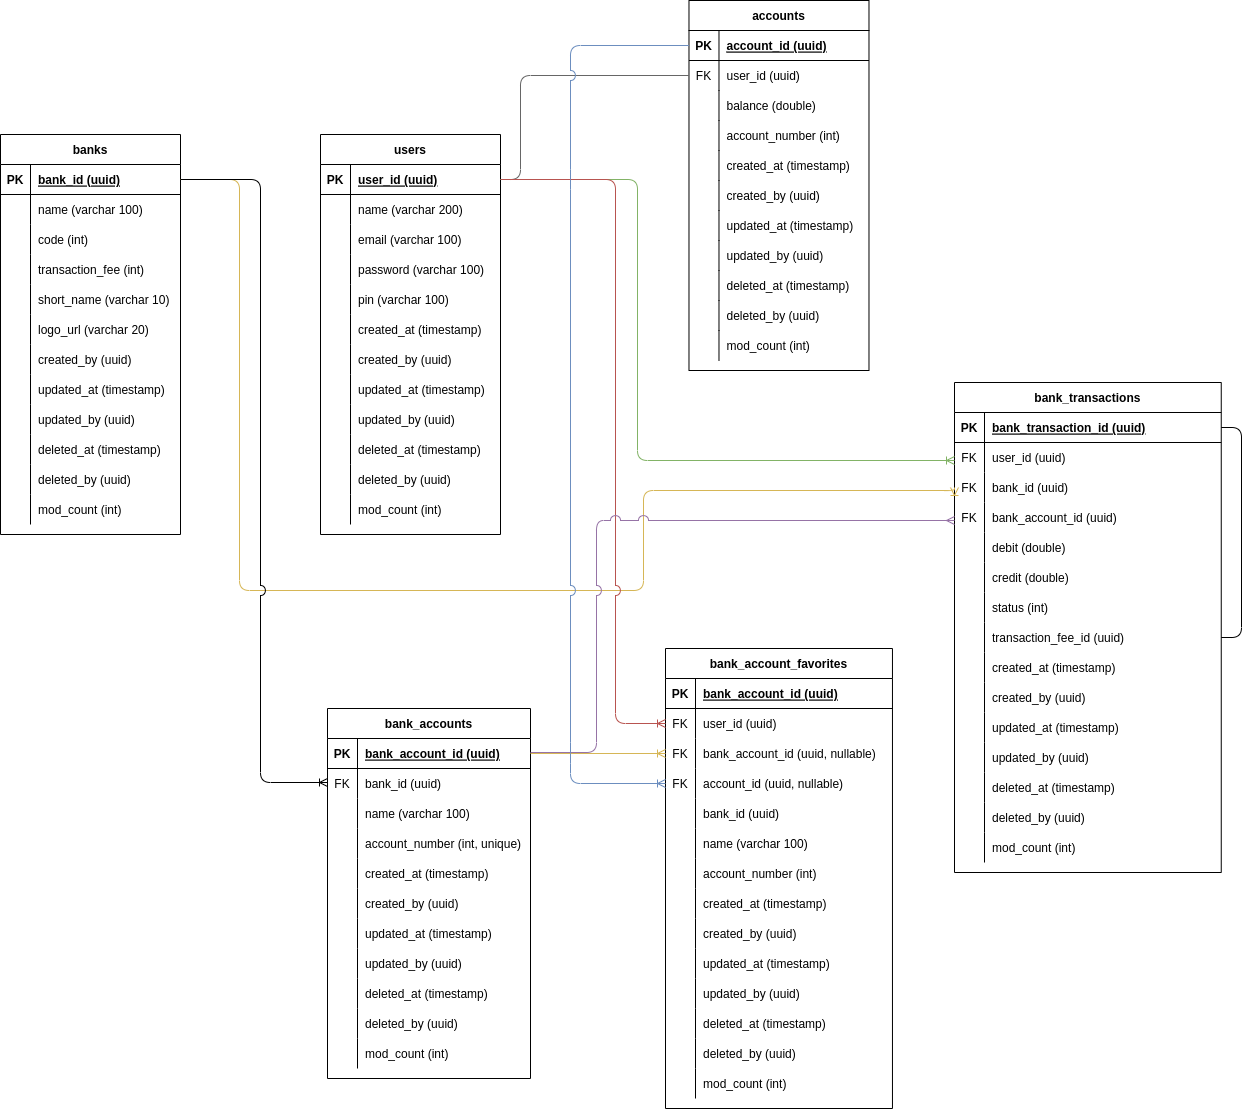
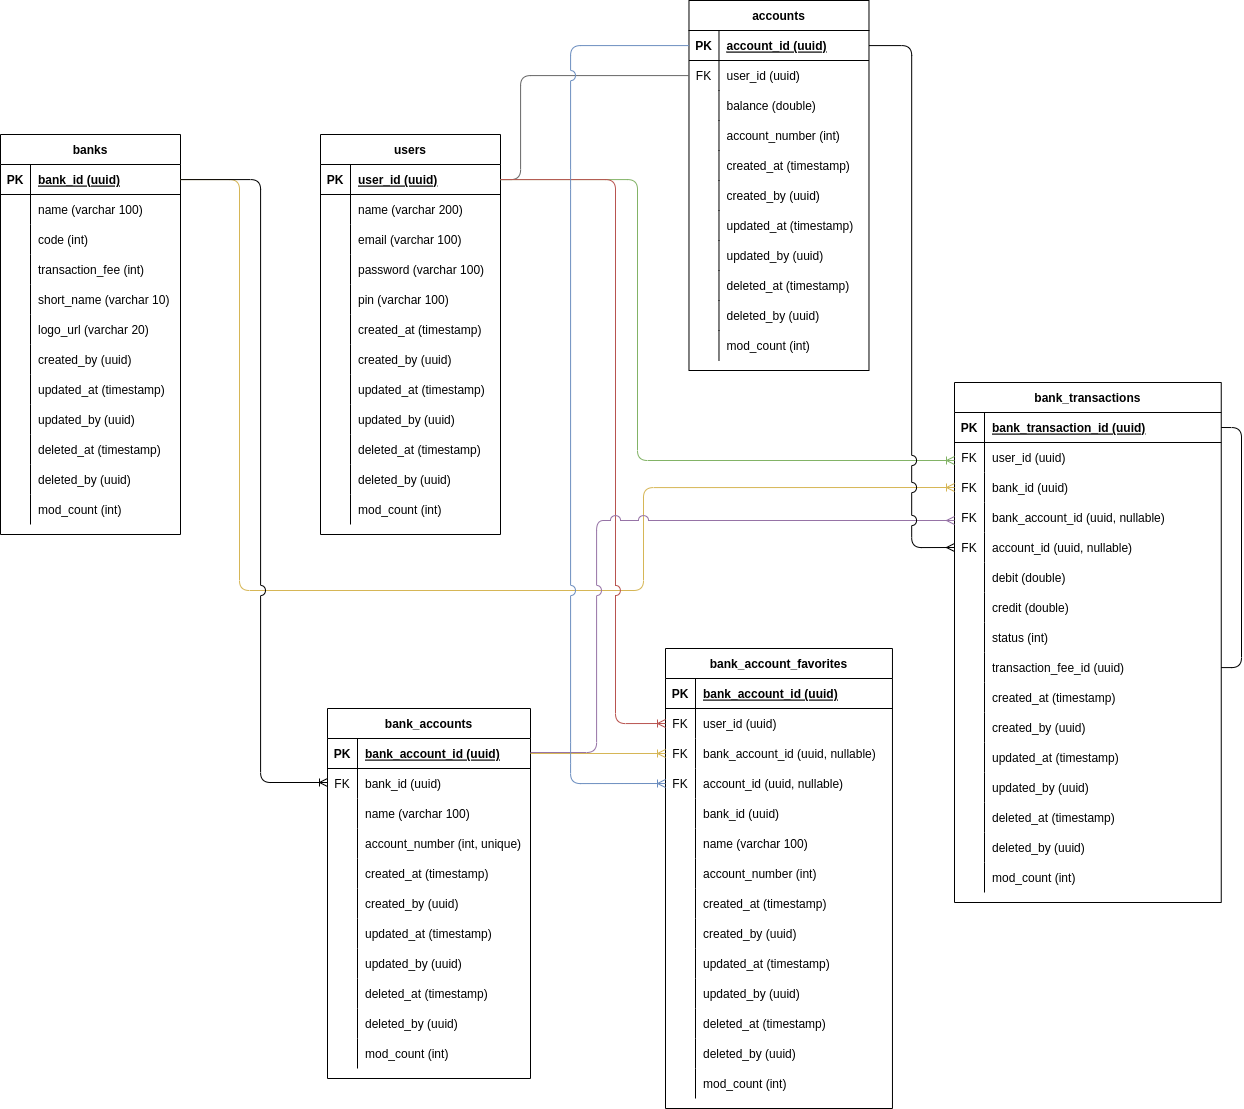
clean and fix

diff --git a/app/controllers/transaction.controller.go b/app/controllers/transaction.controller.go
@@ -70,29 +70,41 @@ func (trx *TransactionController) CreateTransactions(c *fiber.Ctx) error {
 		})
 	}
 
-	var account models.BankAccount
-	err = trx.Serv.Repository.GetBankAccountByAccountNumber(createBankTransactionReq.AccountNumber, bank, &account)
-	if err != nil {
-		return c.Status(fiber.StatusNotFound).JSON(fiber.Map{
-			"status":  constants.STATUS_FAIL,
-			"message": "bank account number not valid",
-			"error":   err.Error(),
-		})
-	}
-
 	userId := trx.Serv.JwtManager.GetUserId(c)
-
-	transaction := models.BankTransaction{
-		BankAccountId: account.ID,
-		BankId:        bank.ID,
-		UserId:        userId,
-		Debit:         0,
-		Credit:        createBankTransactionReq.Amount,
-		Status:        constants.TRX_PENDING,
-		CreatedBy:     userId, // note: use gorm hook
+	transaction := &models.BankTransaction{
+		BankId:    bank.ID,
+		UserId:    userId,
+		Debit:     0,
+		Credit:    createBankTransactionReq.Amount,
+		Status:    constants.TRX_PENDING,
+		CreatedBy: userId, // note: use gorm hook
 	}
 
-	err = trx.Serv.Repository.CreateBankTransaction(&transaction, &bank)
+	if bank.Code == constants.RAYA_BANK_CODE {
+		var account models.Account
+		err = trx.Serv.Repository.GetBankRayaAccount(createBankTransactionReq.AccountNumber, &account)
+		if err != nil {
+			return c.Status(fiber.StatusNotFound).JSON(fiber.Map{
+				"status":  constants.STATUS_FAIL,
+				"message": "bank account number not valid",
+				"error":   err.Error(),
+			})
+		}
+		transaction.AccountId = account.ID
+	} else {
+		var bankAccount models.BankAccount
+		err = trx.Serv.Repository.GetBankAccountByAccountNumber(createBankTransactionReq.AccountNumber, bank, &bankAccount)
+		if err != nil {
+			return c.Status(fiber.StatusNotFound).JSON(fiber.Map{
+				"status":  constants.STATUS_FAIL,
+				"message": "bank account number not valid",
+				"error":   err.Error(),
+			})
+		}
+		transaction.BankAccountId = bankAccount.ID
+	}
+
+	err = trx.Serv.Repository.CreateBankTransaction(transaction, &bank)
 	if err != nil {
 		return c.Status(fiber.StatusUnprocessableEntity).JSON(fiber.Map{
 			"status":  constants.STATUS_FAIL,

diff --git a/app/models/bankTransaction.go b/app/models/bankTransaction.go
@@ -34,6 +34,7 @@ type BankTransactionRes struct {
 type BankTransaction struct {
 	ID               uuid.UUID `gorm:"primarykey;type:uuid"`
 	BankAccountId    uuid.UUID `gorm:"type:uuid;default:null"`
+	AccountId        uuid.UUID `gorm:"type:uuid;default:null"`
 	BankId           uuid.UUID `gorm:"type:uuid;default:null"`
 	UserId           uuid.UUID `gorm:"not null;type:uuid"`
 	Debit            float64   `gorm:"not null;default:0"`
@@ -43,11 +44,12 @@ type BankTransaction struct {
 	CreatedAt        time.Time
 	UpdatedAt        time.Time
 	DeletedAt        gorm.DeletedAt `gorm:"index"`
-	CreatedBy        uuid.UUID      `gorm:"type:uuid"`
-	UpdatedBy        uuid.UUID      `gorm:"type:uuid"`
-	DeletedBy        uuid.UUID      `gorm:"type:uuid"`
-	ModCount         int
+	CreatedBy        uuid.UUID      `gorm:"type:uuid;default:null"`
+	UpdatedBy        uuid.UUID      `gorm:"type:uuid;default:null"`
+	DeletedBy        uuid.UUID      `gorm:"type:uuid;default:null"`
+	ModCount         int            `gorm:"default:0"`
 	// Relation BelongsTo
+	RayaAccount    *Account         `gorm:"foreignKey:AccountId"`
 	Bankaccount    *BankAccount     `gorm:"foreignKey:BankAccountId"`
 	Bank           *Bank            `gorm:"foreignKey:BankId"`
 	User           User             `gorm:"foreignKey:UserId"`
@@ -99,6 +101,15 @@ func (banktrx *BankTransaction) ToBankTransactionRes() BankTransactionRes {
 
 	if banktrx.Bankaccount != nil {
 		bankTrxRes.BankAccount = *banktrx.Bankaccount.ToBankAccountRes()
+	}
+
+	if banktrx.RayaAccount != nil && banktrx.RayaAccount.UserAccount != nil {
+		bankTrxRes.BankAccount = BankAccountRes{
+			ID:            banktrx.RayaAccount.ID,
+			BankID:        banktrx.BankId,
+			Name:          banktrx.RayaAccount.UserAccount.Name,
+			AccountNumber: banktrx.RayaAccount.AccountNumber,
+		}
 	}
 
 	return bankTrxRes

diff --git a/app/repository/transaction.repository.go b/app/repository/transaction.repository.go
@@ -71,15 +71,21 @@ func (r *Repository) CreateBankTransaction(trx *models.BankTransaction, bank *mo
 	trx.Bank = &models.Bank{}
 	db.First(&trx.Bank, "id = ?", trx.BankId)
 
-	trx.Bankaccount = &models.BankAccount{}
-	db.First(&trx.Bankaccount, "id = ?", trx.BankAccountId)
+	if trx.AccountId != (uuid.UUID{}) {
+		trx.RayaAccount = &models.Account{}
+		db.Preload("UserAccount").First(&trx.RayaAccount, "id = ?", trx.AccountId)
+	}
+	if trx.BankAccountId != (uuid.UUID{}) {
+		trx.Bankaccount = &models.BankAccount{}
+		db.First(&trx.Bankaccount, "id = ?", trx.BankAccountId)
+	}
 
 	if trx.TransactionFeeId != (uuid.UUID{}) { // uuid not nil
 		trx.TransactionFee = &models.BankTransaction{}
 		db.First(&trx.TransactionFee, "id = ?", trx.TransactionFeeId)
 	}
 
-	// TODO: publish transaction to PUB/SUB
+	// TODO: publish transaction to PUB/SUB use goroutine
 	return nil
 }
 
@@ -87,6 +93,7 @@ func (r *Repository) GetTransactionById(id string, trx *models.BankTransaction) 
 	db, _ := r.Gormdb.GetInstance()
 
 	err := db.Preload("TransactionFee").Preload("Bankaccount").
+		Preload("RayaAccount.UserAccount").
 		Preload("Bank").First(&trx, "id = ?", id).Error
 	return err
 }
@@ -95,9 +102,10 @@ func (r *Repository) GetLatestTransactions(userId uuid.UUID, transactions *[]mod
 	db, _ := r.Gormdb.GetInstance()
 
 	err := db.Order("created_at DESC").
-		Where("bank_account_id is not null").
+		Where("debit = 0 AND (bank_account_id IS NOT NULL OR account_id IS NOT NULL)").
 		Preload("Bank").
 		Preload("Bankaccount").
+		Preload("RayaAccount.UserAccount").
 		Preload("TransactionFee").
 		Find(&transactions, "user_id = ?", userId).Error
 

diff --git a/pkg/gormdb/gormdb.go b/pkg/gormdb/gormdb.go
@@ -1,6 +1,7 @@
 package gormdb
 
 import (
+	"database/sql"
 	"fmt"
 	"sync"
 
@@ -15,7 +16,8 @@ import (
 var lock = &sync.Mutex{}
 
 type GormDB struct {
-	db *gorm.DB
+	Db   *gorm.DB
+	Conn *sql.DB
 }
 
 func New() *GormDB {
@@ -23,7 +25,7 @@ func New() *GormDB {
 }
 
 func (gdb *GormDB) GetInstance() (*gorm.DB, error) {
-	if gdb.db == nil {
+	if gdb.Db == nil {
 		configs := configs.GetInstance()
 
 		dsn := fmt.Sprintf(
@@ -37,7 +39,10 @@ func (gdb *GormDB) GetInstance() (*gorm.DB, error) {
 		)
 		lock.Lock()
 		var err error
-		gdb.db, err = gorm.Open(postgres.Open(dsn), &gorm.Config{})
+		gdb.Conn, err = sql.Open("pgx", dsn)
+		gdb.Db, err = gorm.Open(postgres.New(postgres.Config{
+			Conn: gdb.Conn,
+		}), &gorm.Config{})
 		lock.Unlock()
 		if err != nil {
 			return nil, err
@@ -45,7 +50,7 @@ func (gdb *GormDB) GetInstance() (*gorm.DB, error) {
 
 		if configs.Dbconfig.DbIsMigrate {
 			// Migrate Here
-			gdb.db.AutoMigrate(
+			gdb.Db.AutoMigrate(
 				&models.User{},
 				&models.BankTransaction{},
 				&models.Bank{},
@@ -53,10 +58,10 @@ func (gdb *GormDB) GetInstance() (*gorm.DB, error) {
 				&models.BankAccount{},
 				&models.BankAccountFavorite{},
 			)
-			helper.Seed(gdb.db)
+			helper.Seed(gdb.Db)
 		}
-		return gdb.db, nil
+		return gdb.Db, nil
 	}
 	// fmt.Println("[DATABASE] : ", gdb.db)
-	return gdb.db, nil
+	return gdb.Db, nil
 }

diff --git a/app/models/account.go b/app/models/account.go
@@ -9,22 +9,21 @@ import (
 
 type Account struct {
 	ID            uuid.UUID `gorm:"primarykey;type:uuid"`
-	UserId        uuid.UUID `gorm:"not null;type:uuid"`
-	AccountNumber string    `gorm:"not null"`
+	UserId        uuid.UUID `gorm:"unique;not null;type:uuid"`
+	AccountNumber string    `gorm:"unique;not null"`
 	Balance       float64   `gorm:"not null"`
 	CreatedAt     time.Time
 	UpdatedAt     time.Time
 	DeletedAt     gorm.DeletedAt `gorm:"index"`
-	CreatedBy     uuid.UUID      `gorm:"type:uuid"`
-	UpdatedBy     uuid.UUID      `gorm:"type:uuid"`
-	DeletedBy     uuid.UUID      `gorm:"type:uuid"`
-	ModCount      int
-	UserAccount   *User `gorm:"foreignKey:user_id"`
+	CreatedBy     uuid.UUID      `gorm:"type:uuid;default:null"`
+	UpdatedBy     uuid.UUID      `gorm:"type:uuid;default:null"`
+	DeletedBy     uuid.UUID      `gorm:"type:uuid;default:null"`
+	ModCount      int            `gorm:"default:0"`
+	UserAccount   *User          `gorm:"foreignKey:user_id"`
 }
 
 func (account *Account) BeforeCreate(tx *gorm.DB) (err error) {
 	account.ID = uuid.New()
-	account.ModCount = 1
 
 	return
 }

diff --git a/app/models/bankAccountFavorite.go b/app/models/bankAccountFavorite.go
@@ -33,10 +33,10 @@ type BankAccountFavorite struct {
 	CreatedAt     time.Time
 	UpdatedAt     time.Time
 	DeletedAt     gorm.DeletedAt `gorm:"index"`
-	CreatedBy     uuid.UUID      `gorm:"type:uuid"`
-	UpdatedBy     uuid.UUID      `gorm:"type:uuid"`
-	DeletedBy     uuid.UUID      `gorm:"type:uuid"`
-	ModCount      int
+	CreatedBy     uuid.UUID      `gorm:"type:uuid;default:null"`
+	UpdatedBy     uuid.UUID      `gorm:"type:uuid;default:null"`
+	DeletedBy     uuid.UUID      `gorm:"type:uuid;default:null"`
+	ModCount      int            `gorm:"default:0"`
 	// Relation BelongsTo
 	Bankaccount *BankAccount `gorm:"foreignKey:BankAccountId"`
 	RayaAccount *Account     `gorm:"foreignKey:AccountId"`

diff --git a/app/models/bank.go b/app/models/bank.go
@@ -38,15 +38,14 @@ type Bank struct {
 	CreatedAt      time.Time
 	UpdatedAt      time.Time
 	DeletedAt      gorm.DeletedAt `gorm:"index"`
-	CreatedBy      uuid.UUID      `gorm:"type:uuid"`
-	UpdatedBy      uuid.UUID      `gorm:"type:uuid"`
-	DeletedBy      uuid.UUID      `gorm:"type:uuid"`
-	ModCount       int
+	CreatedBy      uuid.UUID      `gorm:"type:uuid;default:null"`
+	UpdatedBy      uuid.UUID      `gorm:"type:uuid;default:null"`
+	DeletedBy      uuid.UUID      `gorm:"type:uuid;default:null"`
+	ModCount       int            `gorm:"default:0"`
 }
 
 func (bank *Bank) BeforeCreate(tx *gorm.DB) (err error) {
 	bank.ID = uuid.New()
-	bank.ModCount = 1
 
 	return
 }

diff --git a/router/api/v1/router.go b/router/api/v1/router.go
@@ -8,10 +8,9 @@ import (
 	jwtware "github.com/gofiber/jwt/v3"
 )
 
-func Routes(app *fiber.App) {
+func Routes(app *fiber.App, services *services.Services) {
 	route := app.Group("/api/v1")
 
-	services := services.New()
 	authController := &controllers.AuthController{
 		Serv: services,
 	}
@@ -45,4 +44,5 @@ func Routes(app *fiber.App) {
 	routeAuth.Get("/transactions/account-balance", transactionController.GetBalance)
 	routeAuth.Post("/transactions", transactionController.CreateTransactions)
 	routeAuth.Get("/transactions/:id", transactionController.ShowTransaction)
+	routeAuth.Post("/test/injetct-balance", authController.InjectBalance)
 }

diff --git a/app/models/bankAccount.go b/app/models/bankAccount.go
@@ -22,10 +22,10 @@ type BankAccount struct {
 	CreatedAt     time.Time
 	UpdatedAt     time.Time
 	DeletedAt     gorm.DeletedAt `gorm:"index"`
-	CreatedBy     uuid.UUID      `gorm:"type:uuid"`
-	UpdatedBy     uuid.UUID      `gorm:"type:uuid"`
-	DeletedBy     uuid.UUID      `gorm:"type:uuid"`
-	ModCount      int
+	CreatedBy     uuid.UUID      `gorm:"type:uuid;default:null"`
+	UpdatedBy     uuid.UUID      `gorm:"type:uuid;default:null"`
+	DeletedBy     uuid.UUID      `gorm:"type:uuid;default:null"`
+	ModCount      int            `gorm:"default:0"`
 	// Relation BelongsTo
 	BankAccountBank Bank `gorm:"foreignKey:bank_id"`
 }

diff --git a/main.go b/main.go
@@ -5,6 +5,7 @@ import (
 	"log"
 
 	"github.com/ajikamaludin/api-raya-ojt/app/configs"
+	"github.com/ajikamaludin/api-raya-ojt/app/services"
 	"github.com/ajikamaludin/api-raya-ojt/router"
 	apiv1 "github.com/ajikamaludin/api-raya-ojt/router/api/v1"
 	home "github.com/ajikamaludin/api-raya-ojt/router/home"
@@ -24,10 +25,13 @@ func main() {
 	app.Use(recover.New())
 	app.Use(logger.New())
 
+	services := services.New()
+	defer services.Db.Conn.Close()
+
 	// default here : /
 	home.Routes(app)
 	// api route : api/v1
-	apiv1.Routes(app)
+	apiv1.Routes(app, services)
 	// handle 404
 	router.Routes(app)
 

diff --git a/app/models/user.go b/app/models/user.go
@@ -40,10 +40,10 @@ type User struct {
 	CreatedAt time.Time
 	UpdatedAt time.Time
 	DeletedAt gorm.DeletedAt `gorm:"index"`
-	CreatedBy uuid.UUID      `gorm:"type:uuid"`
-	UpdatedBy uuid.UUID      `gorm:"type:uuid"`
-	DeletedBy uuid.UUID      `gorm:"type:uuid"`
-	ModCount  int
+	CreatedBy uuid.UUID      `gorm:"type:uuid;default:null"`
+	UpdatedBy uuid.UUID      `gorm:"type:uuid;default:null"`
+	DeletedBy uuid.UUID      `gorm:"type:uuid;default:null"`
+	ModCount  int            `gorm:"default:0"`
 	// Relation
 	// BankTransactions []BankTransaction
 	UserAccount *Account

diff --git a/app/controllers/favorite.controller.go b/app/controllers/favorite.controller.go
@@ -86,7 +86,6 @@ func (favorite *FavoriteController) Store(c *fiber.Ctx) error {
 			})
 		}
 		bankAccountFavorite.AccountId = account.ID
-		bankAccountFavorite.RayaAccount = &account
 	} else {
 		var bankAccount models.BankAccount
 		err = favorite.Serv.Repository.GetBankAccountByAccountNumber(bankAccountFavoriteReq.AccountNumber, bank, &bankAccount)
@@ -98,7 +97,6 @@ func (favorite *FavoriteController) Store(c *fiber.Ctx) error {
 			})
 		}
 		bankAccountFavorite.BankAccountId = bankAccount.ID
-		bankAccountFavorite.Bankaccount = &bankAccount
 	}
 
 	// create
